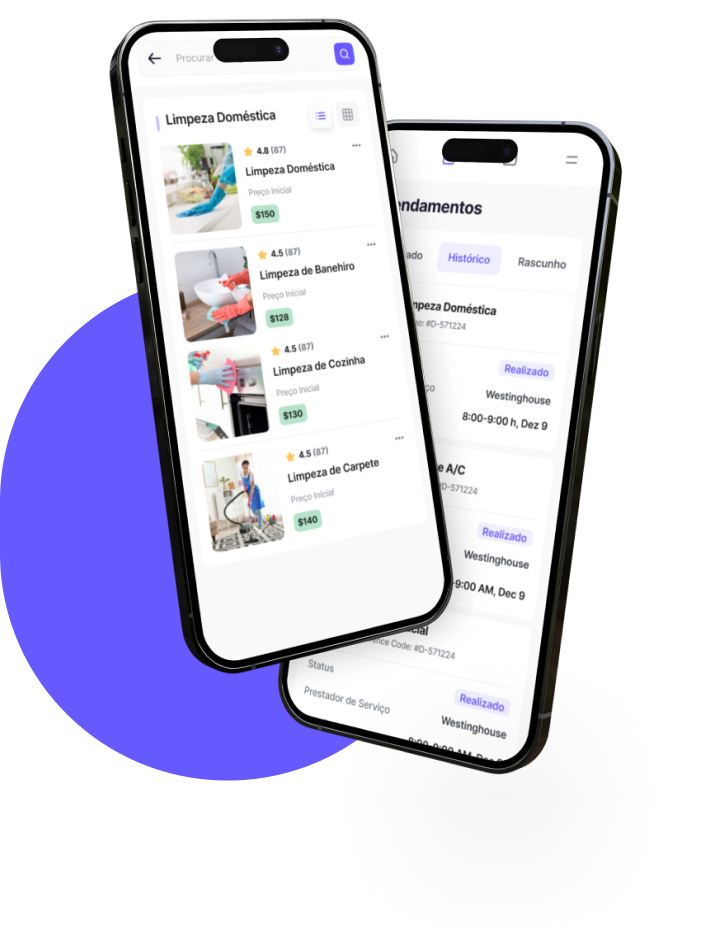
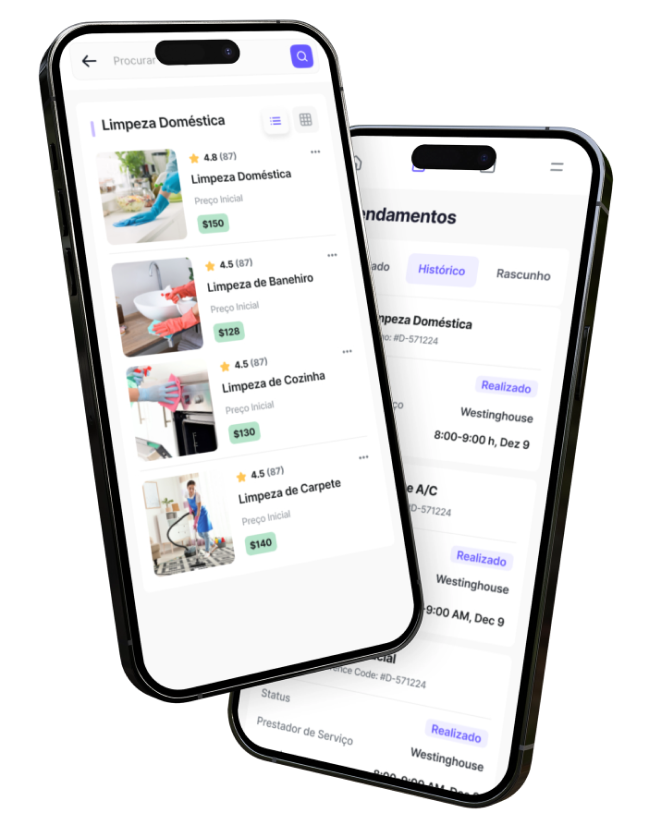
fix(adjusts): replace images, fix faq and reduced fonts

diff --git a/src/app/page.tsx b/src/app/page.tsx
@@ -18,6 +18,7 @@ import { CardIcon } from "@/components/CardIcon";
 
 import phoneImage from "@/assets/phone-mockup.png";
 import phoneCircle from "@/assets/phone-circle.png";
+import circle from "@/assets/purple-circle.png";
 import phoneCirclePink from "@/assets/phone-circle-pink.png";
 import phone from "@/assets/phone-mockup-2.png";
 import logo from "@/assets/logo-purple.png";
@@ -40,11 +41,11 @@ export default function Home() {
                 LARPRÓ
               </span>
               <div className="flex flex-col gap-4 mt-4">
-                <h1 className="text-[32px] font-bold text-black-500 w-full max-w-80 leading-[38px] lg:text-6xl lg:max-w-[665px] lg:leading-[72px]">
+                <h1 className="text-[32px] font-bold text-black-500 w-full max-w-80 leading-[38px] lg:text-5xl lg:max-w-[665px] lg:leading-[72px]">
                   Soluções para o seu dia a dia,{" "}
                   <span className="text-primary">a um toque</span>!
                 </h1>
-                <p className="text-black-150 text-base lg:text-xl">
+                <p className="text-black-150 text-base lg:text-lg">
                   Encontre eletricistas, encanadores, pintores, diaristas,
                   técnicos e muito mais. Tudo em um só lugar, com praticidade e
                   confiança!
@@ -56,9 +57,9 @@ export default function Home() {
                       alt="Baixe LarPró na PlayStore"
                       className="w-[27px] h-[30px]"
                     />
-                    <span className="flex flex-col text-[10px] lg:text-xs text-white text-left">
+                    <span className="flex flex-col text-[10px] lg:text-xxs text-white text-left">
                       Disponível na
-                      <p className="text-base lg:text-xl text-white font-bold">
+                      <p className="text-base lg:text-lg text-white font-bold">
                         Google Play
                       </p>
                     </span>
@@ -66,9 +67,9 @@ export default function Home() {
 
                   <button className="w-full max-w-48 py-2 px-4 bg-black-500 rounded-lg flex gap-3 items-center">
                     <AppStoreLogo />
-                    <span className="flex flex-col text-[10px] lg:text-xs text-white text-left">
+                    <span className="flex flex-col text-[10px] lg:text-xxs text-white text-left">
                       Disponível na
-                      <p className="text-base lg:text-xl text-white font-bold">
+                      <p className="text-base lg:text-lg text-white font-bold">
                         App Store
                       </p>
                     </span>
@@ -94,10 +95,10 @@ export default function Home() {
                 SERVIÇOS
               </span>
               <div className="flex flex-col gap-4 mt-4 lg:flex-row lg:mt-6">
-                <h1 className="text-2xl font-bold text-black-500 w-full max-w-80 leading-[38px] lg:w-1/2 lg:max-w-full lg:text-[40px]">
+                <h1 className="text-xl font-bold text-black-500 w-full max-w-80 leading-[38px] lg:w-1/2 lg:max-w-full lg:text-[40px]">
                   Precisa de ajuda em casa?
                 </h1>
-                <p className="text-black-150 text-base border-l-[2px] border-primary pl-3 lg:w-1/2 lg:max-w-full lg:text-xl">
+                <p className="text-black-150 text-sm border-l-[2px] border-primary pl-3 lg:w-1/2 lg:max-w-full lg:text-xl">
                   O LarPró conecta você aos melhores prestadores de serviços
                   para tudo o que você precisa:
                 </p>
@@ -140,7 +141,7 @@ export default function Home() {
               <h1 className="text-xl font-semibold text-black-500 w-full max-w-80 leading-8 lg:text-center lg:text-[32px] lg:max-w-full">
                 Tudo em um só lugar, fácil, rápido e seguro.
               </h1>
-              <p className="text-black-150 text-base mt-3 lg:text-center lg:text-xl lg:max-w-[900px]">
+              <p className="text-black-150 text-base mt-3 lg:text-center lg:text-xl lg:max-w-[900px] mb-16">
                 Com o LarPro, você acessa uma rede confiável de prestadores
                 avaliados por outros clientes e pode escolher pela sua
                 localidade.
@@ -148,12 +149,17 @@ export default function Home() {
             </FadeInSection>
 
             <FadeInSection>
-              <div className="w-full flex flex-col gap-4 mt-14 lg:flex-row lg:items-center">
-                <div className="hidden lg:flex w-full">
+              <div className="w-full flex flex-col gap-4 mt-14 lg:flex-row lg:items-center mt-28">
+                <div className="hidden relative lg:flex w-full">
+                  <Image
+                    src={circle}
+                    alt="LarPro - Benefícios"
+                    className="w-[400px] h-[400px]"
+                  />
                   <Image
                     src={phoneCircle}
-                    alt="LarPro - Benefícios"
-                    className="w-full"
+                    alt="LarPro - Benefícios 2"
+                    className="w-[400px] absolute bottom-0 right-[100] h-[500px]"
                   />
                 </div>
 
@@ -161,7 +167,7 @@ export default function Home() {
                   <span className="bg-primary/10 text-primary font-bold text-sm rounded-[100px] px-6 py-3 tracking-[2px]">
                     BENEFÍCIOS
                   </span>
-                  <h1 className="text-2xl font-bold text-black-500 w-full max-w-80 leading-8 mt-6 lg:text-[40px] lg:max-w-full">
+                  <h1 className="text-xl font-bold text-black-500 w-full max-w-80 leading-8 mt-6 lg:text-[40px] lg:max-w-full">
                     Por que escolher o LarPro?
                   </h1>
 
@@ -245,13 +251,17 @@ export default function Home() {
                     </div>
                   </div>
                 </div>
-
-                <div className="flex lg:hidden w-full">
+                <div className="relative lg:hidden w-full mt-28 justify-center flex">
+                  <Image
+                    src={circle}
+                    alt="LarPro - Benefícios"
+                    className="w-[300px] h-[300px]"
+                  />
                   <Image
                     src={phoneCircle}
-                    alt="LarPro - Benefícios"
-                    className="w-full"
-                  />
+                    alt="LarPro - Benefícios 2"
+                    className="w-[300px] absolute bottom-0 left-1/2 transform -translate-x-[35%] h-[400px]"
+                    />
                 </div>
               </div>
             </FadeInSection>
@@ -269,7 +279,7 @@ export default function Home() {
             <div className="w-full flex flex-col mt-6 items-center">
               {" "}
               <FadeInSection>
-                <h1 className="text-2xl font-bold text-black-500 text-center lg:text-[44px]">
+                <h1 className="text-xl font-bold text-black-500 text-center lg:text-[44px]">
                   LarPro Prestadores
                 </h1>
                 <p className="text-black-150 text-center text-base mt-4 lg:text-xl">

diff --git a/src/components/Faq/index.tsx b/src/components/Faq/index.tsx
@@ -31,7 +31,7 @@ export function Faq() {
           </span>
 
           <div className="w-full flex flex-col mt-6 items-center lg:items-start">
-            <h1 className="text-2xl font-bold text-black-500 text-center lg:text-[44px]">
+            <h1 className="text-xl font-bold text-black-500 text-center lg:text-[44px]">
               Dúvidas Frequentes
             </h1>
           </div>
@@ -47,7 +47,7 @@ export function Faq() {
                   O LarPro é realmente gratuito?
                 </AccordionTrigger>
                 <AccordionContent>
-                  Yes. It adheres to the WAI-ARIA design pattern.
+                Sim, nosso aplicativo é 100% gratuito! Tanto clientes quanto prestadores de serviços podem se cadastrar sem custos, criar seus perfis e começar a usar a plataforma imediatamente. Não cobramos taxas para que você encontre profissionais qualificados, nem para que os prestadores divulguem seus serviços
                 </AccordionContent>
               </AccordionItem>
               <AccordionItem value="item-2" onClick={() => setFaqSelected(2)}>
@@ -55,8 +55,7 @@ export function Faq() {
                   Como posso encontrar prestadores perto de mim?
                 </AccordionTrigger>
                 <AccordionContent>
-                  Yes. It comes with default styles that matches the other
-                  components&apos; aesthetic.
+                É simples! No app LarPro, você pode buscar prestadores pela sua localidade, garantindo praticidade e agilidade no atendimento.
                 </AccordionContent>
               </AccordionItem>
               <AccordionItem value="item-3" onClick={() => setFaqSelected(3)}>
@@ -64,8 +63,7 @@ export function Faq() {
                   Como faço para avaliar um prestador de serviço?
                 </AccordionTrigger>
                 <AccordionContent>
-                  Yes. Animated by default, but you can disable it if you
-                  prefer.
+                Após o serviço concluído, você poderá deixar uma avaliação, ajudando outros usuários e reconhecendo o bom trabalho do prestador.
                 </AccordionContent>
               </AccordionItem>
 
@@ -75,8 +73,7 @@ export function Faq() {
                   real?
                 </AccordionTrigger>
                 <AccordionContent>
-                  Yes. Animated by default, but you can disable it if you
-                  prefer.
+                  Não, o chat em tempo real está integrado ao aplicativo. Basta abrir o LarPro, selecionar o serviço desejado e começar a conversa diretamente com o prestador.
                 </AccordionContent>
               </AccordionItem>
 
@@ -85,8 +82,7 @@ export function Faq() {
                   Sou prestador. Como os clientes me encontram?
                 </AccordionTrigger>
                 <AccordionContent>
-                  Yes. Animated by default, but you can disable it if you
-                  prefer.
+                Ao se cadastrar no LarPro Prestadores, seu perfil estará visível para todos os clientes da sua região. É uma ótima maneira de conseguir mais visibilidade e aumentar sua clientela.
                 </AccordionContent>
               </AccordionItem>
             </Accordion>
